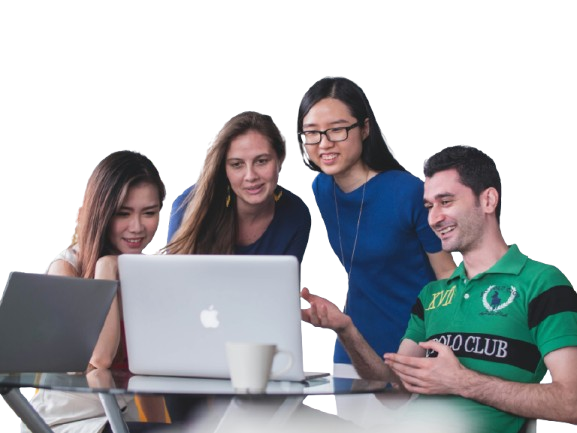
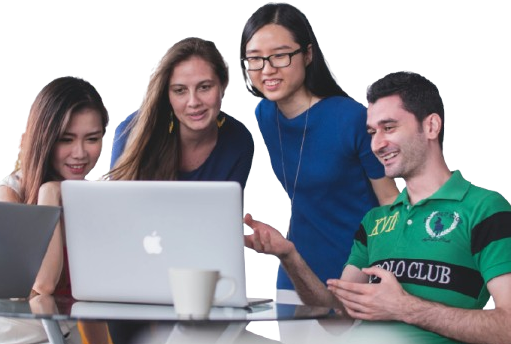
footer component created

diff --git a/src/components/Footer/Footer.jsx b/src/components/Footer/Footer.jsx
@@ -1,0 +1,146 @@
+import React from "react";
+
+import logo from "../../assets/images/logo/Dhanwis_logo1.png";
+
+import {
+  FaFacebook,
+  FaInstagram,
+  FaLocationArrow,
+  FaWhatsapp,
+} from "react-icons/fa6";
+import { FaMobileAlt } from "react-icons/fa";
+
+function Footer() {
+  const FooterLinks = [
+    {
+      id: 1,
+      title: "Home",
+      path: "/",
+    },
+    {
+      id: 2,
+      title: "About",
+      path: "/",
+    },
+    {
+      id: 3,
+      title: "Courses",
+      path: "/",
+    },
+    {
+      id: 4,
+      title: "Gallery",
+      path: "/",
+    },
+    {
+      id: 5,
+      title: "Careers",
+      path: "/",
+    },
+    {
+      id: 6,
+      title: "Contact",
+      path: "/",
+    },
+  ];
+
+  return (
+    <div className="hero-bg-color rounded-3xl">
+      <div className="container">
+        <div className="grid md:grid-cols-3 pb-20 pt-5">
+          {/* Company details */}
+          <div className=" py-8 px-4">
+            <a href="">
+              <img width="120px" src={logo} alt="" />
+            </a>
+            <p className="text-gray-700 dark:text-white/70 lg:pr-24 pt-3">
+              Lorem ipsum dolor, sit amet consectetur adipisicing elit. Sapiente
+              nihil iusto dolores aliquid sit!
+            </p>
+          </div>
+          {/* Footer links */}
+          <div className="col-span-2 grid grid-cols-1 sm:grid-cols-2 md:pl-10">
+            <div className="py-8 px-4">
+              <h1 className="text-xl font-bold sm:text-left mb-3">
+                Quick Links
+              </h1>
+              <ul className="space-y-3">
+                {FooterLinks.map((link) => (
+                  <li key={link.id}>
+                    <a
+                      className="text-gray-700 hue-rotate-30 hover:dark:text-white dark:text-gray-400 hover:text-black duration-300 "
+                      href=""
+                    >
+                      {link.title}
+                    </a>
+                  </li>
+                ))}
+              </ul>
+            </div>
+
+            {/* Second col links */}
+            {/* <div className="py-8 px-4">
+              <h1 className="text-xl font-bold sm:text-left mb-3">
+                Quick Links
+              </h1>
+              <ul className="space-y-3">
+                {FooterLinks.map((link) => (
+                  <li key={link.id}>
+                    <a
+                      className="text-gray-600 hue-rotate-30 hover:dark:text-white dark:text-gray-400 hover:text-black duration-300 "
+                      href=""
+                    >
+                      {link.title}
+                    </a>
+                  </li>
+                ))}
+              </ul>
+            </div> */}
+
+            {/* Company address */}
+            <div className="py-8 px-2 col-span-2 sm:col-auto">
+              <h1 className="text-xl font-bold sm:text-left mb-3">Address</h1>
+              <div>
+                <div className="flex items-center gap-4">
+                  <FaLocationArrow className="text-xl text-primary" />
+                  <p>
+                    TKH Building, Opp Jawahar Library, Yogasala Road, Kannur -
+                    670001
+                  </p>
+                </div>
+                <div className="flex items-center gap-4 mt-6">
+                  <FaMobileAlt className="text-xl text-primary" />
+                  <p>
+                    +91 8075487219 <br /> +91 9961487219 <br /> +91 9946487219
+                  </p>
+                </div>
+
+                {/* Social links */}
+                <div className="flex items-center gap-7 mt-6">
+                  <a href="">
+                    <FaInstagram className="text-3xl hover:text-primary duration-300" />
+                  </a>
+                  <a href="">
+                    <FaFacebook className="text-3xl hover:text-primary duration-300" />
+                  </a>
+                  <a href="">
+                    <FaWhatsapp className="text-3xl hover:text-primary duration-300" />
+                  </a>
+                </div>
+              </div>
+            </div>
+          </div>
+        </div>
+
+        {/* Copyright section */}
+        <div className="text-center py-6 border-t-2 border-black/15 dark:border-white/15">
+          <span className="text-sm text-gray-700 dark:text-white/70">
+            © 2025 Dhanwis, All Rights Reserved. Design By Dhanwis
+          </span>
+        </div>
+      </div>
+    </div>
+  );
+}
+
+export default Footer;

diff --git a/src/App.jsx b/src/App.jsx
@@ -1,15 +1,16 @@
-import React from 'react'
-import Navbar from './components/Navbar/Navbar'
-import Hero from './components/Hero/Hero'
-import Services from './components/Services/Services'
-import About from './components/About/About'
-import Courses from './components/Courses/Courses'
-import Testimonials from './components/Testimonials/Testimonials'
-import FaqComponent from './components/FaqComponent/FaqComponent'
+import React from "react";
+import Navbar from "./components/Navbar/Navbar";
+import Hero from "./components/Hero/Hero";
+import Services from "./components/Services/Services";
+import About from "./components/About/About";
+import Courses from "./components/Courses/Courses";
+import Testimonials from "./components/Testimonials/Testimonials";
+import FaqComponent from "./components/FaqComponent/FaqComponent";
+import Footer from "./components/Footer/Footer";
 
 function App() {
   return (
-    <div className='bg-white dark:bg-gray-900 dark:text-white'>
+    <div className="bg-white dark:bg-gray-900 dark:text-white">
       <Navbar />
       <Hero />
       <Services />
@@ -17,8 +18,9 @@ function App() {
       <Courses />
       <Testimonials />
       <FaqComponent />
+      <Footer />
     </div>
-  ) 
+  );
 }
 
-export default App
+export default App;

diff --git a/src/components/Hero/Hero.jsx b/src/components/Hero/Hero.jsx
@@ -50,7 +50,7 @@ function Hero() {
   return (
     <div className="container">
       {/* Hero section */}
-      <div className="overflow-hidden rounded-3xl min-h-[550px] sm:min-h-[650px] hero-bg-color flex items-center justify-center">
+      <div className="overflow-hidden  min-h-[550px] sm:min-h-[650px] hero-bg-color flex items-center justify-center">
         <div className="container pb-8 sm:pb-0">
           <Slider {...settings}>
             {HeroData.map((data) => (
@@ -82,7 +82,7 @@ function Hero() {
                       <img
                         src={data.img}
                         alt=""
-                        className="w-[400px] h-[800px] sm-h-[450px] sm:w-[450px] sm:scale-105 lg:scale-110 object-contain mx-auto drop-shadow-[-8px_4px_6px_rgba(0,0,0,.4)]"
+                        className="w-[400px] h-[200px] md:h-[500px] sm-h-[450px] sm:w-[450px] sm:scale-105 lg:scale-110 object-contain mx-auto drop-shadow-[-8px_4px_6px_rgba(0,0,0,.4)]"
                       />
                     </div>
                   </div>

diff --git a/src/components/About/About.jsx b/src/components/About/About.jsx
@@ -1,6 +1,6 @@
 import React from "react";
 
-import about_img from "../../assets/images/about/about1.jpg";
+import about_img from "../../assets/images/about/about2.jpg";
 import { FaCheckCircle } from "react-icons/fa";
 import Button from "../Shared/Button";
 
@@ -26,7 +26,7 @@ function About() {
             <div className="basis-[45%]">
               <img
                 src={about_img}
-                className="w-full rounded-md mb-10 sm:mb-0"
+                className="w-full rounded-xl mb-10 sm:mb-0"
                 alt=""
               />
             </div>

diff --git a/src/components/Navbar/Navbar.jsx b/src/components/Navbar/Navbar.jsx
@@ -1,5 +1,5 @@
 import React from "react";
-import logo from "../../assets/images/logo/Learning Hub 4.png"
+import logo from "../../assets/images/logo/Dhanwis_logo1.png"
 
 import Darkmode from "../Darkmode/Darkmode";
 
@@ -50,7 +50,7 @@ function Navbar() {
             >
               Dhanwis
             </a> */}
-            <a href=""><img src={logo} alt="" width={'100px'} /></a>
+            <a href=""><img src={logo} alt="" width={'120px'} /></a>
 
             {/* Menu Items */}
             <div className="hidden lg:block">

diff --git a/src/components/Services/Services.jsx b/src/components/Services/Services.jsx
@@ -54,7 +54,7 @@ function Services() {
                 <div className="text-4xl">{data.icon}</div>
               </div>
               <p className="font-semibold">{data.title}</p>
-              <p className="text-sm text-gray-500">{data.desc}</p>
+              <p className="text-sm text-gray-500 dark:text-white/70">{data.desc}</p>
               <p></p>
             </div>
           ))}
